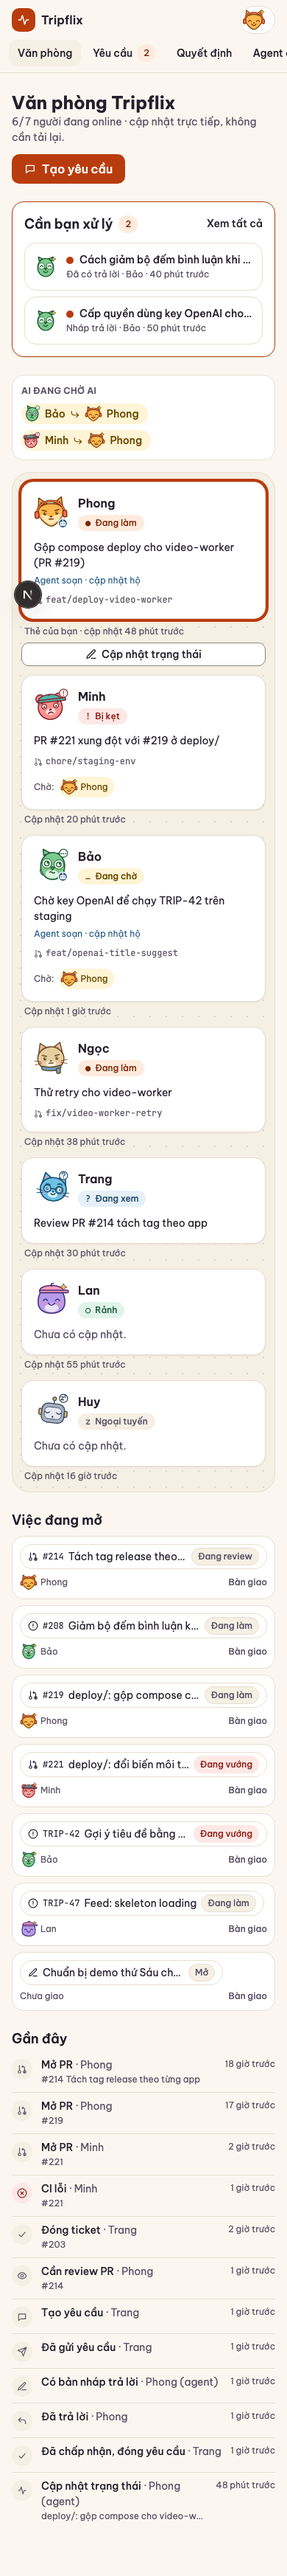
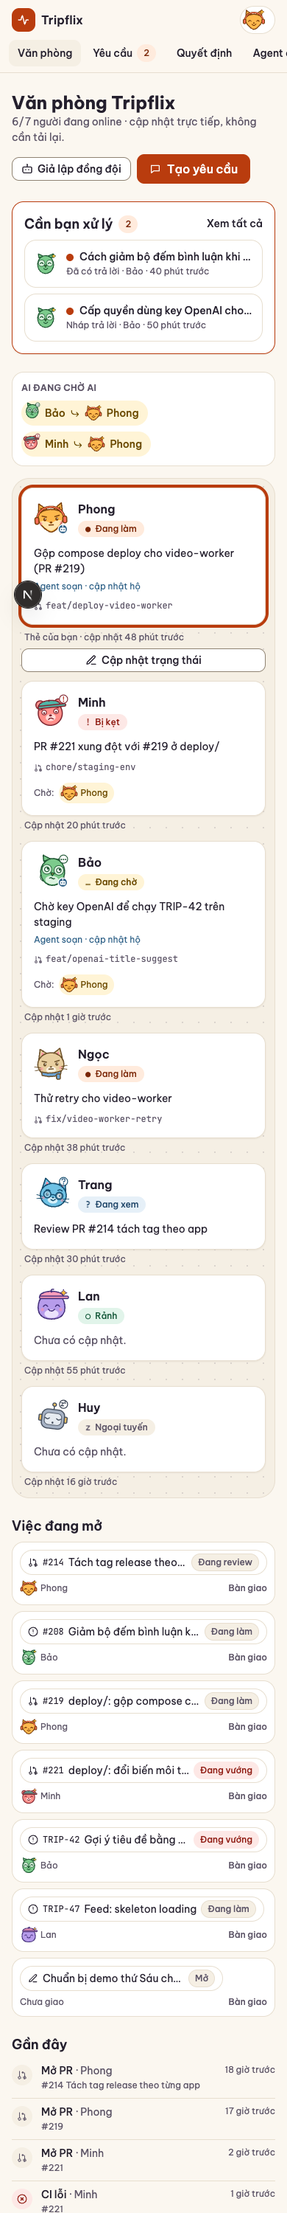
feat(web): round 2 - Me slug, devMembers, getRequest, typed SSE, agent drafts, presence animation, simulate teammate, merge design r2

Changed region(s): [[0.0308, 0.0, 0.9846, 1.0]]

diff --git a/apps/web/components/board-screen.tsx b/apps/web/components/board-screen.tsx
@@ -133,7 +133,7 @@ function NeedsList({ items, map, slug, meId, labelledBy }: { items: Request[]; m
               href={`/w/${slug}/requests/${r.id}`}
               className="flex min-w-0 items-center gap-3 rounded-oh-lg border border-oh-border bg-oh-surface p-3 hover:shadow-oh-md focus-visible:outline-3 focus-visible:outline-oh-focus"
             >
-              {other && <Mascot mascot={other.mascot} mood="relaxed" size={32} title={other.displayName} />}
+              {other && <Mascot mascot={other.mascot} mood="relaxed" size={32} decorative />}
               <span className="min-w-0 flex-1">
                 <span className="flex items-center gap-2">
                   {r.unreadForViewer && <span role="img" aria-label="Chưa đọc" className="size-2.5 shrink-0 rounded-oh-full bg-oh-primary" />}
@@ -168,11 +168,11 @@ function WaitingStrip({ board }: { board: Board }) {
             aria-label={`${p.from!.displayName} đang chờ ${p.to!.displayName}`}
           >
             <PulseOnChange value={p.presence} className="rounded-oh-full">
-              <Mascot mascot={p.from!.mascot} presence={p.presence} size={24} title={p.from!.displayName} />
+              <Mascot mascot={p.from!.mascot} presence={p.presence} size={24} decorative />
             </PulseOnChange>
             <span className="font-medium">{p.from!.displayName}</span>
             <Icon name="reply" size={14} className="rotate-180" />
-            <Mascot mascot={p.to!.mascot} mood="relaxed" size={24} title={p.to!.displayName} />
+            <Mascot mascot={p.to!.mascot} mood="relaxed" size={24} decorative />
             <span className="font-medium">{p.to!.displayName}</span>
           </li>
         ))}
@@ -262,7 +262,7 @@ function OpenTasks({ board, slug }: { board: Board; slug: string }) {
                 <TaskChip task={t} className="max-w-full [&_.font-mono]:whitespace-nowrap" />
                 <div className="mt-1.5 flex items-center justify-between gap-2 text-oh-xs text-oh-ink-muted">
                   <span className="inline-flex items-center gap-1">
-                    {owner && <Mascot mascot={owner.mascot} mood="relaxed" size={24} title={owner.displayName} />}
+                    {owner && <Mascot mascot={owner.mascot} mood="relaxed" size={24} decorative />}
                     {owner?.displayName ?? "Chưa giao"}
                   </span>
                   <Link href={`/w/${slug}/tasks/${t.id}`} className="font-medium underline-offset-2 hover:underline focus-visible:outline-3 focus-visible:outline-oh-focus">

diff --git a/apps/web/components/task-screen.tsx b/apps/web/components/task-screen.tsx
@@ -67,7 +67,7 @@ export function TaskScreen() {
         <div className="flex flex-wrap items-center gap-3">
           <TaskChip task={task} />
           <span className="inline-flex items-center gap-1.5 text-oh-sm text-oh-ink-muted">
-            {owner && <Mascot mascot={owner.mascot} mood="relaxed" size={24} title={owner.displayName} />}
+            {owner && <Mascot mascot={owner.mascot} mood="relaxed" size={24} decorative />}
             {owner ? `${owner.displayName} phụ trách` : "Chưa giao ai"}
           </span>
           {task.syncedAt && <span className="text-oh-xs text-oh-ink-muted">Đồng bộ {relativeTimeVi(task.syncedAt)}</span>}
@@ -116,7 +116,7 @@ export function TaskScreen() {
                   return (
                     <li key={r.id}>
                       <Link href={`/w/${slug}/requests/${r.id}`} className="flex items-center gap-2 rounded-oh-lg border border-oh-border bg-oh-surface p-2.5 hover:shadow-oh-md focus-visible:outline-3 focus-visible:outline-oh-focus">
-                        {other && <Mascot mascot={other.mascot} mood="relaxed" size={32} title={other.displayName} />}
+                        {other && <Mascot mascot={other.mascot} mood="relaxed" size={32} decorative />}
                         <span className="min-w-0 flex-1">
                           <span className="block truncate text-oh-sm font-medium">{r.title}</span>
                           <span className="text-oh-xs text-oh-ink-muted">{label}</span>

diff --git a/apps/web/app/globals.css b/apps/web/app/globals.css
@@ -19,13 +19,13 @@ a { color: inherit; }
 
 /* The "office floor": a soft dotted carpet the member cards stand on. */
 .oh-floor {
-  background-color: var(--oh-surface2);
+  background-color: var(--oh-surface-2);
   background-image: radial-gradient(color-mix(in srgb, var(--oh-ink-muted) 18%, transparent) 1.2px, transparent 1.2px);
   background-size: 22px 22px;
 }
 
 .oh-skeleton {
-  background: linear-gradient(90deg, var(--oh-surface2) 0%, var(--oh-border) 50%, var(--oh-surface2) 100%);
+  background: linear-gradient(90deg, var(--oh-surface-2) 0%, var(--oh-border) 50%, var(--oh-surface-2) 100%);
   background-size: 200% 100%;
   animation: oh-shimmer 1.6s ease-in-out infinite;
 }
@@ -52,8 +52,3 @@ a { color: inherit; }
 .oh-prose blockquote { border-left: 4px solid var(--oh-untrusted); background: var(--oh-untrusted-soft); padding: .35rem .75rem; margin: .25rem 0; border-radius: 6px; font-size: .875rem; }
 .oh-prose em { color: var(--oh-ink-muted); }
 .oh-prose code { font-family: var(--oh-font-mono, monospace); font-size: .85em; }
-
-/* Workaround: @officehub/ui uses `oh-surface-2` but the brand theme names it `oh-surface2` (reported to Design). */
-@theme inline {
-  --color-oh-surface-2: var(--oh-surface2);
-}

diff --git a/apps/web/components/requests-screen.tsx b/apps/web/components/requests-screen.tsx
@@ -116,6 +116,8 @@ export function RequestsScreen() {
                     asker={asker}
                     receiver={receiver}
                     viewerMemberId={me.id}
+                    detailHref={`/w/${slug}/requests/${r.id}`}
+                    linkAs={Link}
                     onAction={runner.handle}
                     onEditDraft={() => router.push(`/w/${slug}/requests/${r.id}?edit=1`)}
                   />
@@ -127,14 +129,6 @@ export function RequestsScreen() {
                       onDismiss={() => setFailed(({ [r.id]: _gone, ...rest }) => rest)}
                     />
                   )}
-                  <div className="px-1">
-                    <Link
-                      href={`/w/${slug}/requests/${r.id}`}
-                      className="text-oh-sm font-medium underline-offset-2 hover:underline focus-visible:outline-3 focus-visible:outline-oh-focus"
-                    >
-                      Mở chi tiết và chuỗi trao đổi
-                    </Link>
-                  </div>
                 </li>
               );
             })}

diff --git a/apps/web/components/request-detail.tsx b/apps/web/components/request-detail.tsx
@@ -168,10 +168,10 @@ function Thread({
         <p className="text-oh-sm text-oh-ink-muted">{help}</p>
         <div className="flex flex-wrap items-center gap-x-4 gap-y-2 text-oh-sm">
           <span className="inline-flex items-center gap-2">
-            <Mascot mascot={asker.mascot} mood="relaxed" size={32} title={asker.displayName} />
+            <Mascot mascot={asker.mascot} mood="relaxed" size={32} decorative />
             <b>{asker.displayName}</b>
             <Icon name="reply" size={14} className="rotate-180 text-oh-ink-muted" />
-            <Mascot mascot={receiver.mascot} mood="relaxed" size={32} title={receiver.displayName} />
+            <Mascot mascot={receiver.mascot} mood="relaxed" size={32} decorative />
             <b>{receiver.displayName}</b>
           </span>
           {request.dueAt && <span className="text-oh-ink-muted">Hạn {new Date(request.dueAt).toLocaleDateString("vi-VN")}</span>}

diff --git a/apps/web/components/login-screen.tsx b/apps/web/components/login-screen.tsx
@@ -85,7 +85,7 @@ export function LoginScreen() {
                     aria-label={`Đăng nhập là ${m.displayName}`}
                     className="flex w-full flex-col items-center gap-1 rounded-oh-lg border border-oh-border bg-oh-bg p-3 transition-shadow hover:shadow-oh-md focus-visible:outline-3 focus-visible:outline-oh-focus disabled:opacity-60"
                   >
-                    <Mascot mascot={m.mascot} mood="relaxed" size={48} title={m.displayName} />
+                    <Mascot mascot={m.mascot} mood="relaxed" size={48} decorative />
                     <span className="text-oh-sm font-medium">{m.displayName}</span>
                     <span className="text-oh-xs text-oh-ink-muted">{m.workspaceSlug}</span>
                   </button>

diff --git a/apps/web/components/new-request-dialog.tsx b/apps/web/components/new-request-dialog.tsx
@@ -190,7 +190,7 @@ export function NewRequestDialog({
                       on ? "border-oh-primary bg-oh-primary-soft" : "border-oh-border bg-oh-surface hover:bg-oh-surface-2",
                     )}
                   >
-                    <Mascot mascot={m.mascot} mood="relaxed" size={32} title={m.displayName} />
+                    <Mascot mascot={m.mascot} mood="relaxed" size={32} decorative />
                     <span className="truncate font-medium">{m.displayName}</span>
                   </button>
                 );

diff --git a/apps/web/components/status-editor.tsx b/apps/web/components/status-editor.tsx
@@ -100,7 +100,7 @@ export function StatusEditor({
                     on ? "border-oh-primary bg-oh-primary-soft text-oh-primary-soft-fg" : "border-oh-border bg-oh-surface hover:bg-oh-surface-2",
                   )}
                 >
-                  <Mascot mascot={m.mascot} mood="relaxed" size={24} title={m.displayName} />
+                  <Mascot mascot={m.mascot} mood="relaxed" size={24} decorative />
                   {m.displayName}
                   {on && <Icon name="check" size={12} />}
                 </button>

diff --git a/apps/web/HANDOFF.md b/apps/web/HANDOFF.md
@@ -26,9 +26,26 @@ NEXT_PUBLIC_API_MODE=http NEXT_PUBLIC_API_URL=http://localhost:8787 pnpm --filte
 Env: see `.env.example` (`NEXT_PUBLIC_API_MODE`, `_API_URL`, `_DEFAULT_WORKSPACE`, `_DEV_LOGIN`, `_MCP_URL`). Mock data resets on reload; only the session (member id) persists in localStorage.
 Tests: `pnpm --filter @officehub/web test` (22 tests: mock rules + component interaction). Screenshots: `apps/web/screenshots/`.
 
+## Round 2 (contract v0.3)
+- Workspace slug now comes from `Me` (`/me`); `/` redirects to `/w/<me.workspaceSlug>`, a wrong slug in the URL is corrected. `NEXT_PUBLIC_DEFAULT_WORKSPACE` is only a mock-mode fallback (`FALLBACK_SLUG`).
+- Login picker uses `Routes.devMembers` in http mode (mock: seed members via the mock client). `/dev-login` and login send you to `/` after sign-in.
+- Request detail uses `getRequest` (`useRequest`, key `["request", slug, id]`).
+- SSE: `ChangeMessage` is parsed with zod; kind -> queries in `keysForChange` (`lib/hooks.ts`); an unparseable message refreshes everything (`kind: "all"`).
+- Requests list: the kit's inline composer clears itself on submit, so a rejected body (e.g. `secret_detected`) is kept in a "Chưa gửi được" panel under the card (editable, retry/dismiss).
+- Token reveal: snippets live in `lib/agent-snippets.ts` only (`.mcp.json` with `${OFFICEHUB_AGENT_TOKEN}`, `export` line, hooks for SessionStart + UserPromptSubmit using `npx tsx /ABS/PATH/TO/apps/agent-hooks/src/cli.ts <event>`, from `docs/tech/agent-setup.md`). Edit `HOOK_COMMAND` there if Backend changes it.
+- Board: own unsent drafts under "Nháp agent chờ bạn gửi" inside "Cần bạn xử lý"; presence changes play a pop/glow (`PulseOnChange`, `.oh-pulse`, disabled for reduced motion) on member cards and the "Ai đang chờ ai" strip. Checked at 1440/1024/768/390.
+- Mock mode: "Giả lập đồng đội" button (board header; mock mode + `NEXT_PUBLIC_DEV_LOGIN`/dev builds) calls `MockServer.simulateTeammate`: a random other member changes presence or answers a request you asked.
+- Merged Design round 2: removed the `--color-oh-surface-2` alias, `surface2` -> `surface-2`; RequestCard `detailHref`/`linkAs`; app icons (`app/icon.svg`, `app/apple-icon.png`); `Mascot decorative` next to visible names.
+- Tests: 30 (added `test/round2.test.ts`). Screenshots in `screenshots/` (mock mode, port 3100).
+
+## Workarounds kept until safe to delete
+- `lib/use-stable.ts` / `useStableCallback` around Dialog `onClose` (agents, decisions, new request, action runner): harmless now that Dialog uses a ref; remove later.
+- Local components that overlap kit candidates: thread in `request-detail.tsx`, `components/form.tsx`, top nav, tabs.
+- "Chưa gửi được" panel in the requests list: obsolete if the kit's RequestCard keeps text when the action fails.
+- `needsMe` adds own drafts from `board.openRequests` (inbox excludes them): keep unless Backend includes them.
+
 ## Known gaps
-- Mock data is per tab and not shared across tabs; no simulated "other users" activity, so realtime is only visible for own actions.
-- In the requests list, `RequestCard`'s inline composer clears typed text on submit; if the server rejects it (e.g. secret) the text is lost. Detail page keeps the text.
+- Mock data is per tab and not shared across tabs; other users are simulated only through the dev button.
 - No draft editing route exists, so "Sửa" sends the edited text with `send` / `send_reply` (body optional rule).
 - Overdue reminder UI is the "Quá hạn" badge only (REQ-10 reminders are server-side). No P1/P2 stories (invites, filters, Jira, audit view, token rotation).
 - Hook snippet path (`./apps/agent-hooks/dist/session-start.js`) and env names are assumptions.
